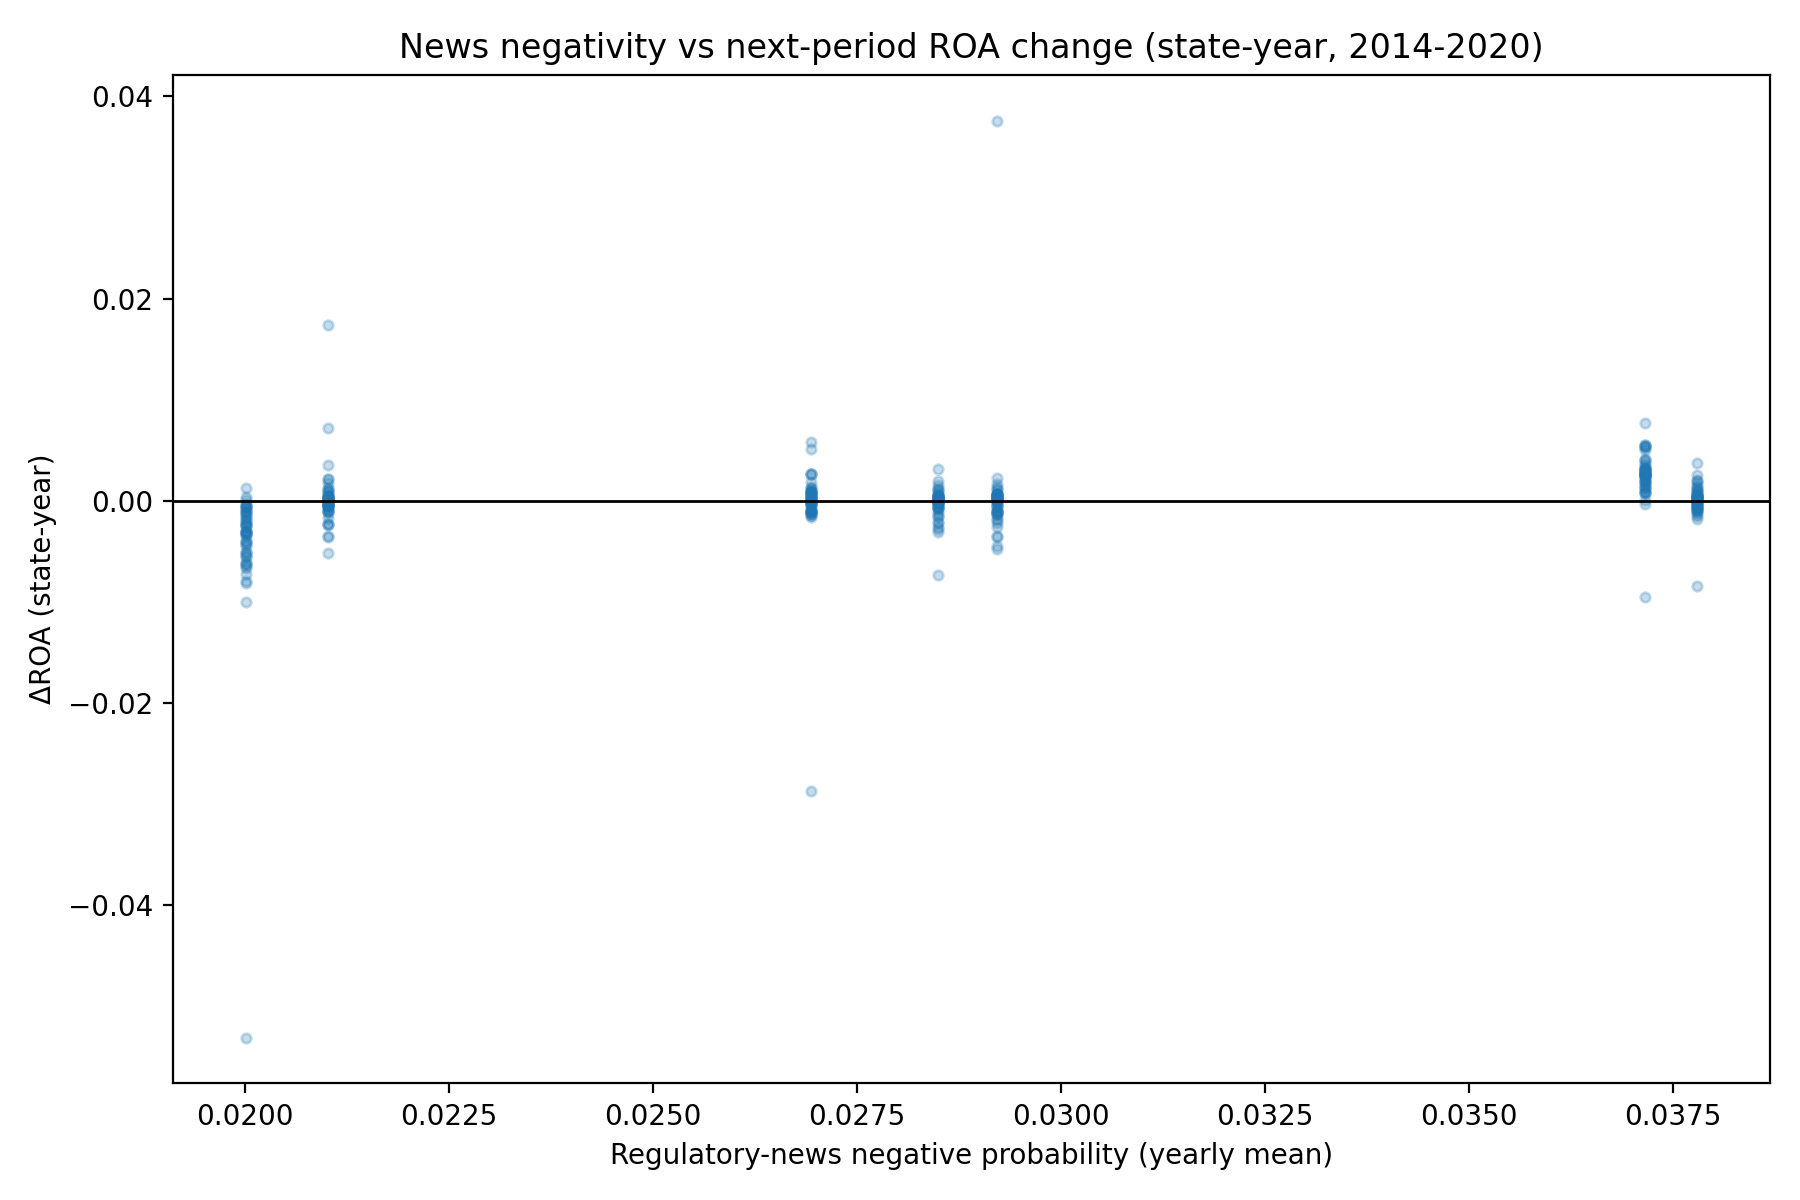
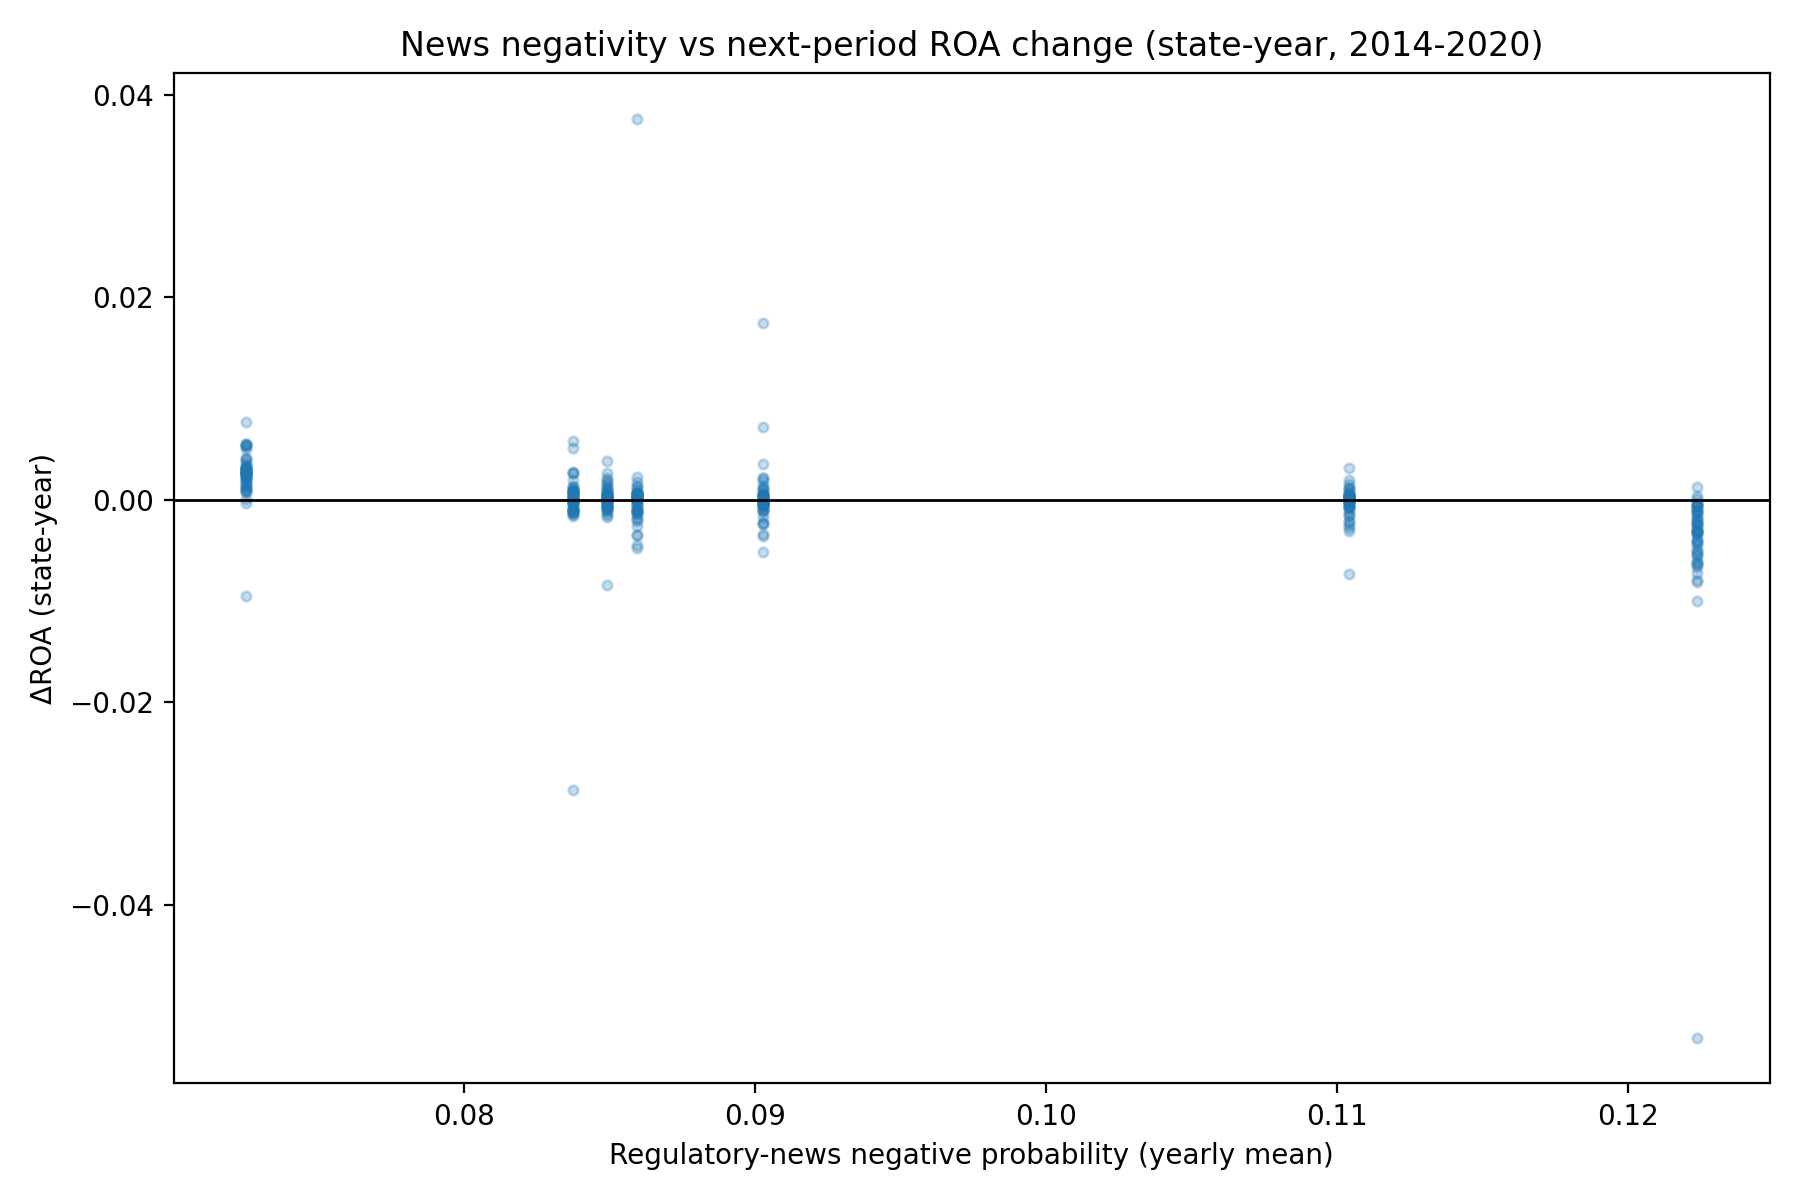
update

diff --git a/preprocessing.py b/preprocessing.py
@@ -206,7 +206,18 @@ def _resolve_fdic_path() -> Path:
 
 
 def _resolve_news_path() -> Path:
-    candidates = [RAW_DIR / "A" / "raw_partner_headlines.csv"]
+    """
+    Locate raw news / headline data.
+
+    Preferred order:
+    1. data/raw-data/A/raw_partner_headlines.csv  (partner headlines, if present)
+    2. data/raw-data/A/raw_analyst_ratings.csv    (fallback: Benzinga analyst headlines)
+    3. External DATA/raw_partner_headlines.csv    (for large files kept outside repo)
+    """
+    candidates = [
+        RAW_DIR / "A" / "raw_partner_headlines.csv",
+        RAW_DIR / "A" / "raw_analyst_ratings.csv",
+    ]
     candidates.extend([d / "raw_partner_headlines.csv" for d in EXTERNAL_DATA_DIRS])
     return _first_existing_path(candidates, "raw news headlines")
 
